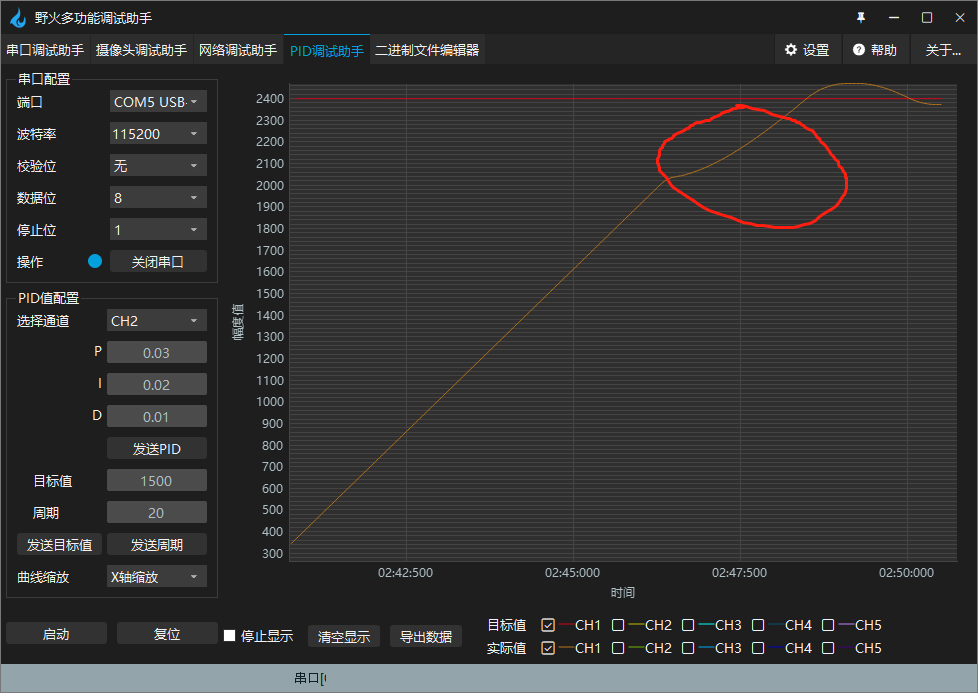
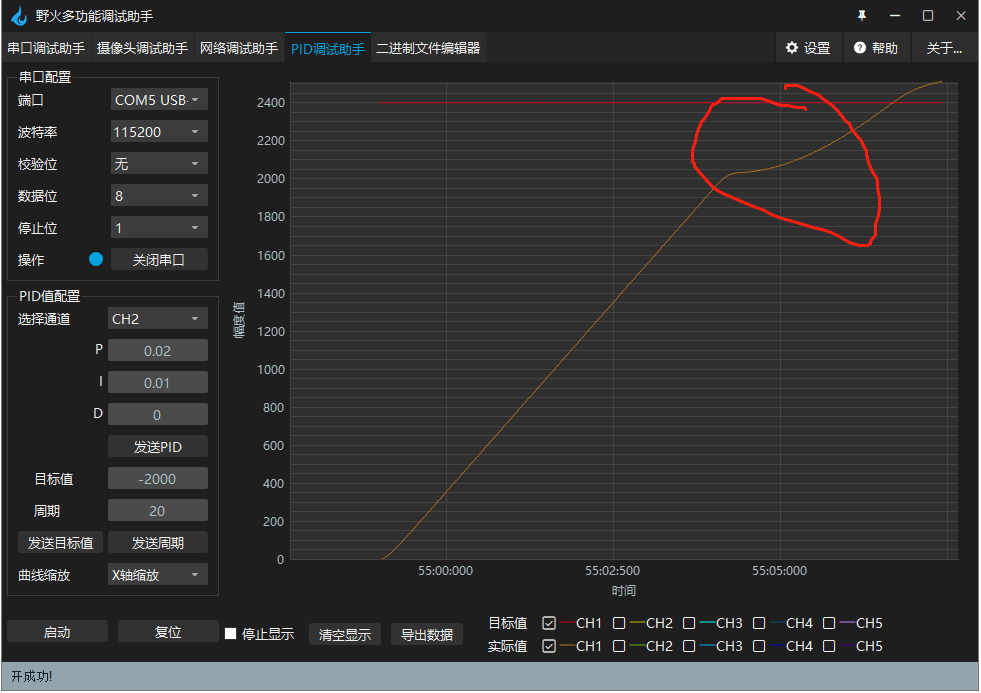
修改了无刷双环控制章节

diff --git a/improve_part/BLDC_multi_loop_control.rst b/improve_part/BLDC_multi_loop_control.rst
@@ -101,14 +101,14 @@
 
         int32_t target_location = 2400;
         
-            /* 初始化系统时钟为168MHz */
-            SystemClock_Config();
+        /* 初始化系统时钟为168MHz */
+        SystemClock_Config();
         
         /* HAL 库初始化 */
         HAL_Init();
         
-            /* 初始化按键GPIO */
-            Key_GPIO_Config();
+        /* 初始化按键GPIO */
+        Key_GPIO_Config();
         
         /* LED 灯初始化 */
         LED_GPIO_Config();
@@ -242,8 +242,8 @@ PID参数初始化、整定说明
             pid_speed.err_last=0.0;
             pid_speed.integral=0.0;
 
-            pid_speed.Kp = 0.13;
-            pid_speed.Ki = 0.12;
+            pid_speed.Kp = 0.35;
+            pid_speed.Ki = 0.18;
             pid_speed.Kd = 0.01;
 
 
